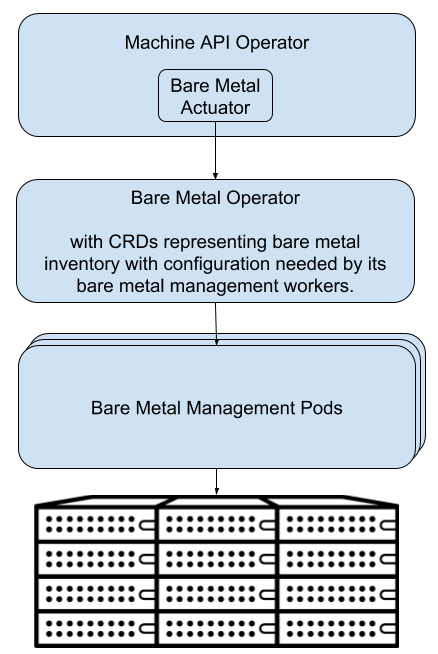
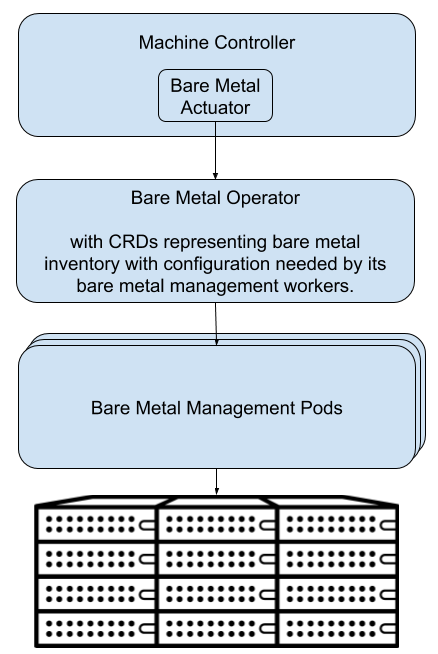
README.md: Update actuator description.
This patch updates the description of the actuator, with the original
goal being to drop the machine-api-operator reference.  There's not
dependency on that operator specifically.

This patch also updates the description of the Machine - BareMetalHost
mapping, as that has now been implemented.

The operator-sdk link was moved into the baremetal-operator
section, as that's where it's most relevant.

Finally, add some `...` usage for literals, like BareMetalHost.

Changed region(s): [[0.2968, 0.0306, 0.7123, 0.0917]]

diff --git a/README.md b/README.md
@@ -7,10 +7,6 @@ metal host management for Kubernetes.  MetalKube works as a Kubernetes
 application, meaning it runs on Kubernetes and is managed through Kubernetes
 interfaces.
 
-[Operators](https://github.com/operator-framework/operator-sdk) are a key piece
-of the MetalKube architecture as the method used to manage kubernetes
-applications.
-
 ## Project Discussion
 
 * [MetalKube Development Mailing List](https://groups.google.com/forum/#!forum/metalkube-dev)
@@ -31,15 +27,11 @@ This first diagram represents the high level architecture:
 #### Machine API Actuator
 
 The first component is the [Bare Metal
-Actuator](https://github.com/metalkube/cluster-api-provider-bare-metal).  This
-is the component with logic specific to this architecture for handling changes
-to the lifecycle of Machine objects.  This actuator may be integrated with the
-existing [Machine API
-Operator](https://github.com/openshift/machine-api-operator) or some other
-implementation of the cluster API.
-
-This actuator will associate Machine objects with a bare metal host from the
-inventory of bare metal hosts managed by the Bare Metal Operator.
+Actuator](https://github.com/metalkube/cluster-api-provider-bare-metal), which
+is an implementation of the Machine Actuator interface defined by the
+cluster-api project.  This actuator reacts to changes to Machine objects and
+acts as a client of the `BareMetalHost` custom resources managed by the Bare
+Metal Operator.
 
 #### Bare Metal Operator
 
@@ -47,11 +39,11 @@ The architecture also includes a new [Bare Metal
 Operator](https://github.com/metalkube/bare-metal-operator), which includes the
 following:
 
-* A Controller for a new Custom Resource, BareMetalHost.  This custom resource
+* A Controller for a new Custom Resource, `BareMetalHost`.  This custom resource
   represents an inventory of known (configured or automatically discovered)
   bare metal hosts.  When a Machine is created the Bare Metal Actuator will
   claim one of these hosts to be provisioned as a new Kubernetes node.
-* In response to BareMetalHost updates, will perform bare metal host
+* In response to `BareMetalHost` updates, will perform bare metal host
   provisioning actions as necessary to reach the desired state.  It will do so
   by managing and driving a set of underlying bare metal provisioning
   components.
@@ -60,16 +52,19 @@ following:
   detail under the hood such that alternatives could be added in the future if
   the need arises.
 
-The creation of the BareMetalHost inventory can be done in two ways:
+The creation of the `BareMetalHost` inventory can be done in two ways:
 
-1. Manually via creating BareMetalHost objects.
+1. Manually via creating `BareMetalHost` objects.
 2. Optionally, automatically created via a bare metal host discovery process.
    Ironic is capable of doing this, which will also be integrated into
    MetalKube as an option.
 
+For more information about Operators, see the
+[operator-sdk](https://github.com/operator-framework/operator-sdk).
+
 ## APIs
 
-1. Enroll nodes by creating BareMetalHost resources.  This would either be
+1. Enroll nodes by creating `BareMetalHost` resources.  This would either be
    manually or done by a component doing node discovery and introspection.
 
    See the documentation in the
@@ -108,6 +103,6 @@ spec:
                 node-profile: node
 ```
 
-3. Machine is associated with an available BareMetalHost, which triggers
-   provisioning of that host to join the cluster.  (Exact mechanism for this
-   association is TBD).
+3. Machine is associated with an available `BareMetalHost`, which triggers
+   provisioning of that host to join the cluster.  This association is done by
+   the Actuator when it sets the `MachineRef` field on the `BareMetalHost`.
